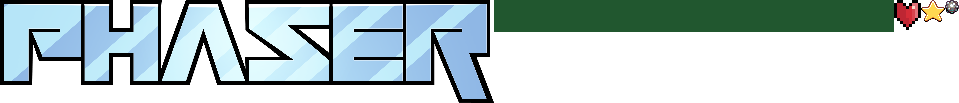
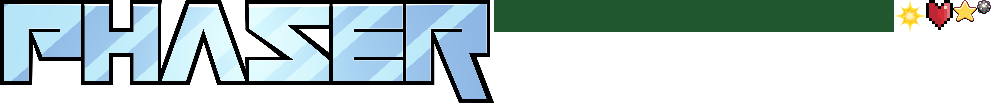
particulas estrellas

Changed region(s): [[0.0302, 0.0, 0.5141, 1.0], [0.877, 0.0, 0.9979, 0.3204], [0.0, 0.6408, 0.0302, 0.7864]]

diff --git a/src/scenes/Game.js b/src/scenes/Game.js
@@ -172,7 +172,26 @@ export class Game extends Scene {
   ///////////// COLLECT START ///////////
 
   collectStar(player, star) {
+    var x = star.x;
+    var y = star.y;
     star.disableBody(false, false);
+    //////////////
+    // Crear el sistema de partículas
+    const emitter = this.add.particles(0, 0, 'atlas', {
+      frame: ['sparkle.png'],
+      lifespan: 4000,
+      speed: { min: 150, max: 250 },
+      scale: { start: 0.8, end: 0 },
+      gravityY: 150,
+      blendMode: 'ADD',
+      emitting: false,
+      x: x,
+      y: y,
+    });
+
+    //añadir particulas
+    emitter.explode(16, x, y);
+    //////////////
     // Animar la opacidad de la estrella recogida a 0 (transparente)
     this.tweens.add({
       targets: star,
